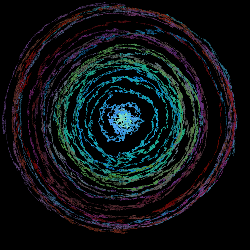
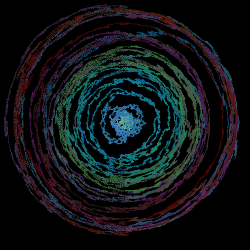
2x scale with 75% alpha

diff --git a/frontend/src/spiralRenderer.ts b/frontend/src/spiralRenderer.ts
@@ -13,8 +13,7 @@ const fromHexString = (hexString: string) : Uint8Array => {
   
 
 // const toHexString = (bytes: Uint8Array) => bytes.reduce((str, byte) => str + byte.toString(16).padStart(2, "0"), "");
-
-const SCALE = 4;
+const SCALE = 2;
 
 function* random_generator(init_seed: string) {
   if (init_seed.startsWith("0x")) {
@@ -267,7 +266,7 @@ function draw_path_with_rot(
     pixels[off] = r;
     pixels[off + 1] = g;
     pixels[off + 2] = b;
-    pixels[off + 3] = 255;
+    pixels[off + 3] = 192; // 75%, to account for a 2x SCALE
   }
 
   //ctx.putImageData(id, 0, 0);
